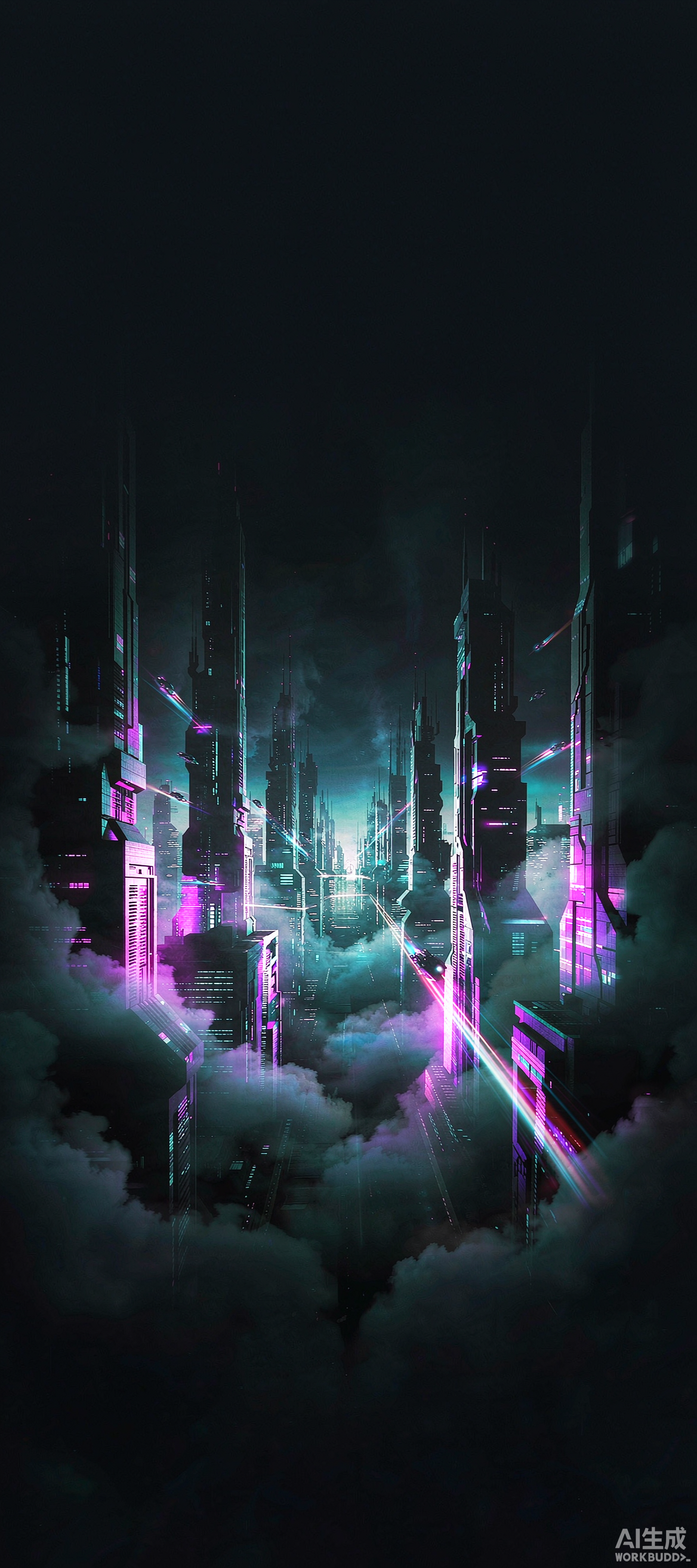
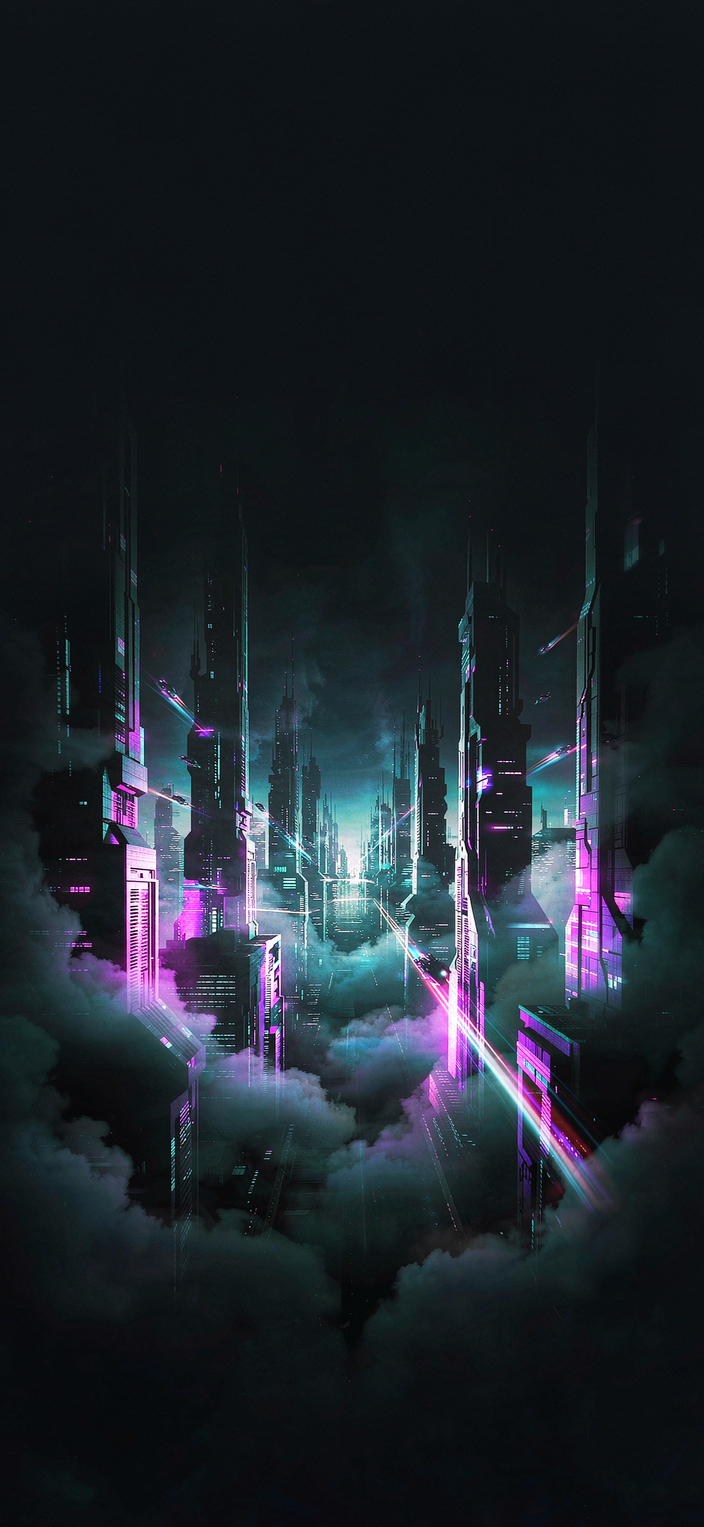
fix: 20张新壁纸裁水印+resize到1179x2556; add-wallpaper.js 自动后处理

diff --git a/scripts/add-wallpaper.js b/scripts/add-wallpaper.js
@@ -68,6 +68,18 @@ if (attempt >= 10) {
   process.exit(1);
 }
 fs.copyFileSync(image, dest);
+// 如果是 PNG，尝试调用 Python 脚本自动裁掉底部 80px AI 水印并精确缩放到 iPhone 原生 1179×2556
+if (ext === ".png") {
+  const { execFileSync } = require("child_process");
+  const py = process.env.WALLPAPER_PYTHON || "/Users/pangbao/.workbuddy/binaries/python/envs/wallpaper/bin/python3";
+  try {
+    execFileSync(py, [path.join(__dirname, "postprocess_wallpaper.py"), dest], { stdio: "ignore" });
+  } catch (e) {
+    console.warn(`⚠  后处理失败（不影响入库）: ${e.message}`);
+  }
+  width = 1179;
+  height = 2556;
+}
 
 list.push({
   id,

diff --git a/scripts/postprocess_wallpaper.py b/scripts/postprocess_wallpaper.py
@@ -1,0 +1,19 @@
+#!/usr/bin/env python3
+"""自动后处理 AI 生成壁纸：裁掉底部 80px 水印 → 精确缩放到 iPhone 原生 1179×2556"""
+import sys
+from PIL import Image
+
+if len(sys.argv) != 2:
+    print("用法: postprocess_wallpaper.py <png>", file=sys.stderr)
+    sys.exit(1)
+
+p = sys.argv[1]
+im = Image.open(p).convert("RGB")
+w, h = im.size
+if (w, h) == (1179, 2556):
+    sys.exit(0)  # 已是目标尺寸
+# 裁掉底部 80px AI 水印 + 等比缩放到精确 iPhone 原生尺寸
+im = im.crop((0, 0, w, h - 80))
+im = im.resize((1179, 2556), Image.LANCZOS)
+im.save(p, "PNG", optimize=True)
+print(f"postprocessed: {p} {w}x{h} -> 1179x2556")
